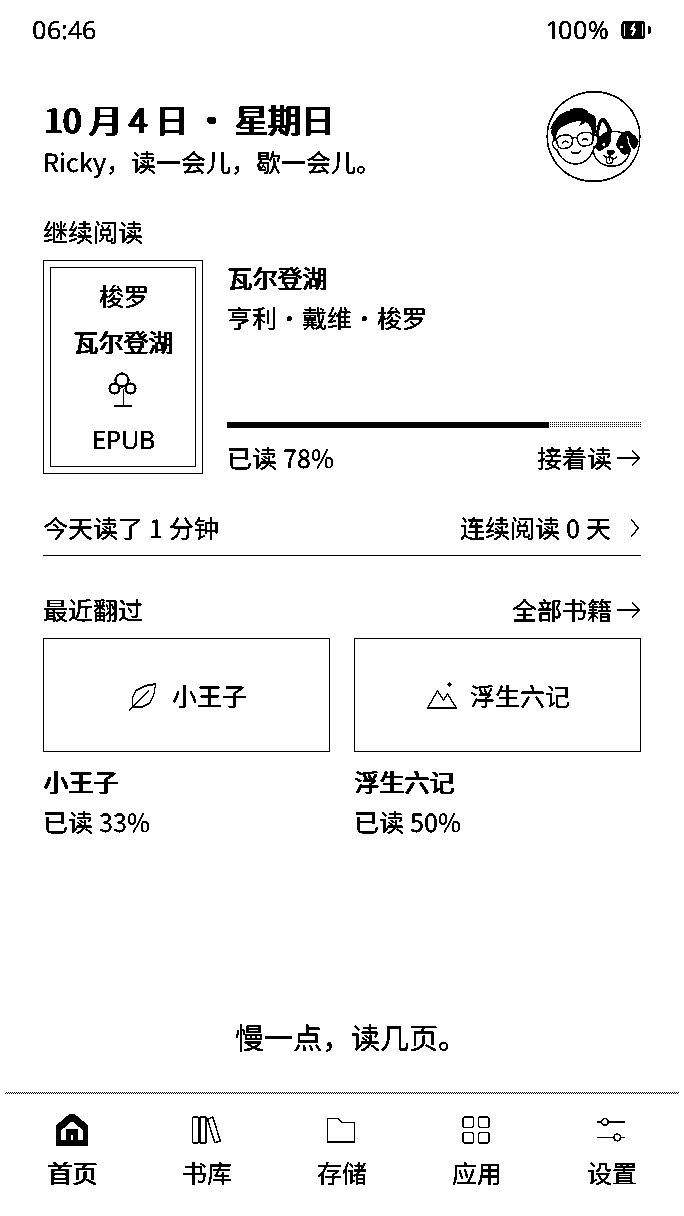
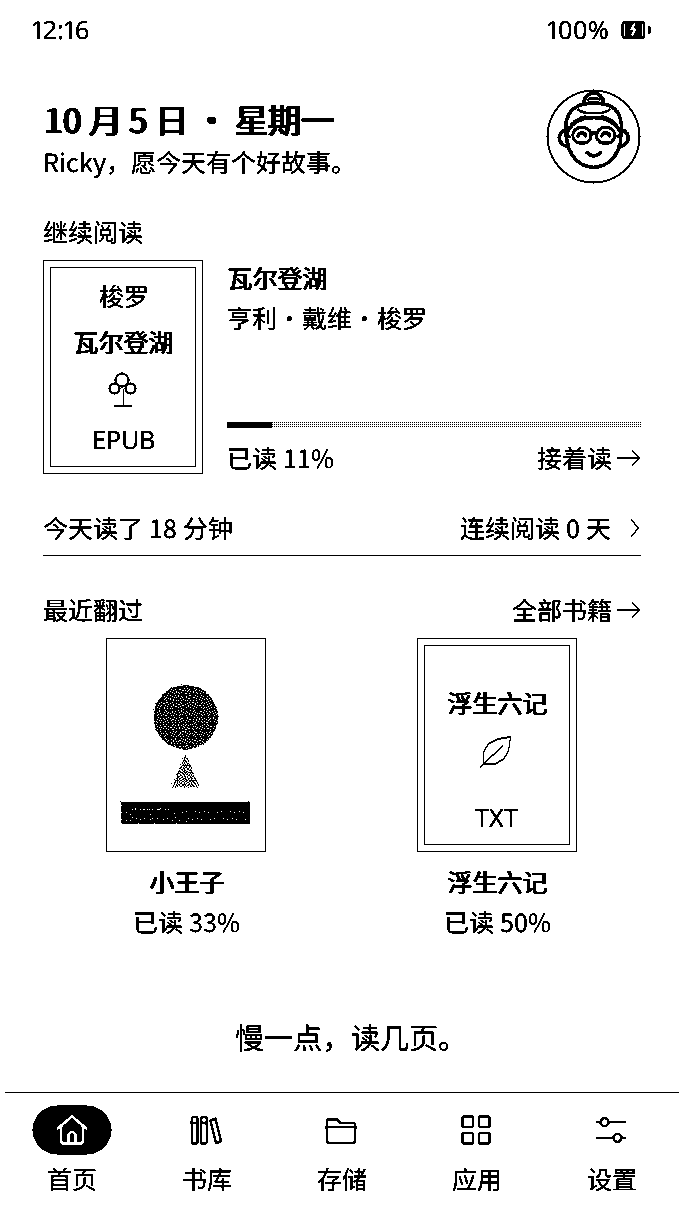
Open the website installer for 1.6.5-rickyos-pico.12
The catalog lists the release as an app upgrade: devices already on
CrossMux or RickyOS can install it from the web, and devices read the
same entry through ota.json. Factory first install stays closed until
it is accepted on hardware, and the copy now says so instead of
promising it. The home screenshot shows the current UI.

diff --git a/tools/rickyos-flasher/install.html b/tools/rickyos-flasher/install.html
@@ -5,17 +5,17 @@
 <header class="b-header"><div class="b-header-inner"><a class="b-brand" href="./"><img data-brand-logo width="1254" height="1254" alt="RickyOS 品牌 logo"><b>RickyOS</b><span>安装工作台</span></a><a class="b-studio" href="./">Ricky AI Studio</a></div></header>
 <main class="b-main"><div class="b-title"><div><p class="minor">MindReset 小纸 Read Pico</p><h1>连接小纸，安装 RickyOS。</h1><p>自动判断当前系统。先备份，再安装。</p></div><a class="b-back-link" href="./">了解系统界面 ↗</a></div>
 <div id="demo-banner" class="notice demo-notice" hidden>流程演示 · 不连接设备、不读取备份、不执行任何 Flash 写入。<a href="./install.html">退出演示 →</a></div>
-<div class="b-workspace"><aside class="b-device"><div class="b-device-title"><b>你的设备</b><span class="status-dot" id="device-state">未连接</span></div><figure><div class="b-screen"><img src="./src/assets/home-frame.png" alt="RickyOS 原生模拟器首页截图" width="684" height="1216"></div><figcaption>系统界面示例 · 原生模拟器</figcaption></figure><h2>MindReset Read Pico</h2><dl><div><dt>型号</dt><dd>RDP-G01-W</dd></div><div><dt>芯片 / Flash</dt><dd>ESP32-S3 / 16 MB</dd></div><div><dt>屏幕</dt><dd>684 × 1216</dd></div></dl><p class="b-device-note">只适用于已确认的 Read Pico 设备。<br>无需先安装其他系统。</p></aside>
+<div class="b-workspace"><aside class="b-device"><div class="b-device-title"><b>你的设备</b><span class="status-dot" id="device-state">未连接</span></div><figure><div class="b-screen"><img src="./src/assets/home-frame.png" alt="RickyOS 原生模拟器首页截图" width="684" height="1216"></div><figcaption>系统界面示例 · 原生模拟器</figcaption></figure><h2>MindReset Read Pico</h2><dl><div><dt>型号</dt><dd>RDP-G01-W</dd></div><div><dt>芯片 / Flash</dt><dd>ESP32-S3 / 16 MB</dd></div><div><dt>屏幕</dt><dd>684 × 1216</dd></div></dl><p class="b-device-note">只适用于已确认的 Read Pico 设备。<br>支持已装有 CrossMux 或 RickyOS 的设备。</p></aside>
 <section class="b-console" id="install" aria-label="RickyOS 安装面板"><div class="b-console-top"><div><span class="minor">安装面板</span><h2>安装 RickyOS</h2></div><span class="version-pill" id="release-tag">正在检查发行版本</span></div>
 <ol class="install-steps" aria-label="安装进度"><li id="step-connect" class="active" aria-current="step"><span>01</span>连接设备</li><li id="step-backup"><span>02</span>保存备份</li><li id="step-install"><span>03</span>安装与校验</li></ol>
 <div class="b-stage"><div class="usb-symbol" id="connect-symbol" aria-hidden="true"><svg viewBox="0 0 48 48" fill="none"><path d="M24 42V8m0 0-5 6m5-6 5 6M24 28l-10-8v-5m10 20 11-8v-7"/><circle cx="14" cy="12" r="3"/><path d="M32 14h6v6h-6z"/><circle cx="24" cy="42" r="3"/></svg></div>
 <h3 id="stage-heading">用 USB 数据线连接设备。</h3><p id="stage-description">在电脑 Chrome 或 Edge 中打开。<br>关闭其他占用串口的网页或刷机窗口。</p>
 <div class="notice" id="compatibility" role="status" aria-live="polite">正在检查发行状态…</div><div class="release-info"><b id="release-version">正式安装包尚未开放</b><p id="release-description">正式固件待发布。当前只开放界面预览和流程演示，不连接或刷写真实设备。</p></div>
-<div class="b-warning" id="before-start"><b id="install-path">自动检查当前系统</b><p id="install-note">原厂设备和已安装设备使用同一入口。完成备份后会检查安装方案。首次安装会替换原厂系统并清理内部文件；原厂设置不保证沿用。请另行备份 SD 卡数据。</p></div>
+<div class="b-warning" id="before-start"><b id="install-path">自动检查当前系统</b><p id="install-note">完成备份后会检查当前系统。已装有 CrossMux 或 RickyOS 的设备只更新应用；原厂系统的首次安装还在验收，暂未开放。请另行备份 SD 卡数据。</p></div>
 <label class="check-row"><input type="checkbox" id="model-confirm"><span>我确认设备是 <b>Read Pico（RDP-G01-W）</b>，并了解第三方固件的安装风险。</span></label><div class="control-row"><button id="connect" class="button blue-button" disabled>连接并检查设备 <span aria-hidden="true">→</span></button><button id="disconnect" class="button quiet" hidden>断开连接</button><a href="./install.html?demo=1" class="text-link" id="demo-link">看看流程演示</a></div>
 <div id="backup-controls" class="backup-controls" hidden><button class="button secondary" id="backup">读取完整 16 MB 备份</button><button class="button quiet" id="cancel" hidden>取消读取</button><a class="button secondary" id="save-backup" hidden download>保存备份文件 ↓</a><label class="file-control" id="saved-backup-control" hidden>校验刚保存的备份<input type="file" id="saved-backup" accept=".bin"></label><p class="small" id="backup-help">备份可能需要数分钟。下载后重新选择这份文件校验，才可进入安装。</p></div>
 <div id="progress-region" hidden><div class="progress-label"><b id="operation">等待操作</b><span id="percent">0%</span></div><progress id="progress" max="100" value="0">0%</progress></div><p class="result" id="result" role="status" aria-live="polite"></p>
 <div class="final-controls" id="final-controls" hidden><label class="check-row"><input type="checkbox" id="write-confirm"><span id="write-confirm-text">完整备份已保存；我确认安装所选版本，写入期间不拔线、不让电脑休眠。</span></label><button id="install-button" class="button blue-button" disabled>安装 RickyOS</button></div></div>
 <div class="b-console-bottom"><span>本地校验 · 备份不上传 · 不操作 SD 卡</span><details class="logs"><summary>查看本次操作记录</summary><pre id="log" aria-label="刷机操作记录">尚未连接设备。没有执行任何 Flash 写入。</pre><button id="save-log" class="text-link">保存记录 ↓</button></details></div></section></div>
-<section class="b-help" id="faq"><h2>安装前与遇到问题时</h2><div><details><summary>电脑找不到设备<span aria-hidden="true">＋</span></summary><p>检查 USB 数据线，关闭占用串口的网页或终端。仍无法识别时，按设备官方说明进入 BOOT 下载模式，不要照其他机型操作。</p></details><details><summary>备份失败或安装中断<span aria-hidden="true">＋</span></summary><p>备份失败不允许写入。若写入已经开始，请保持 BOOT 模式和连接，保存记录并联系 Ricky AI Studio；不要自行整片擦除或重启。本站暂不提供恢复刷写。</p></details><details><summary>原厂设备与书籍数据<span aria-hidden="true">＋</span></summary><p>无需先刷其他系统；受支持的原厂版本会自动匹配首次安装组件。首次安装会调整分区、替换启动组件并清理内部文件。网站不操作 SD 卡，完整 Flash 备份也不含 SD 卡，请另行备份书籍和阅读数据。</p></details></div></section></main>
+<section class="b-help" id="faq"><h2>安装前与遇到问题时</h2><div><details><summary>电脑找不到设备<span aria-hidden="true">＋</span></summary><p>检查 USB 数据线，关闭占用串口的网页或终端。仍无法识别时，按设备官方说明进入 BOOT 下载模式，不要照其他机型操作。</p></details><details><summary>备份失败或安装中断<span aria-hidden="true">＋</span></summary><p>备份失败不允许写入。若写入已经开始，请保持 BOOT 模式和连接，保存记录并联系 Ricky AI Studio；不要自行整片擦除或重启。本站暂不提供恢复刷写。</p></details><details><summary>原厂设备与书籍数据<span aria-hidden="true">＋</span></summary><p>原厂系统的首次安装还在验收，暂未开放；识别到原厂系统时只保存备份，不会写入。网站不操作 SD 卡，完整 Flash 备份也不含 SD 卡，请另行备份书籍和阅读数据。</p></details></div></section></main>
 <footer class="b-footer"><span>RickyOS · Ricky AI Studio</span><span>第三方固件，非 MindReset 官方发布</span><a href="./licenses.html">开源与隐私说明 ↗</a></footer><noscript><p class="b-main notice">请开启 JavaScript。关闭脚本时无法连接设备或刷写。</p></noscript><script type="module" src="./src/app.js"></script></body></html>

diff --git a/tools/rickyos-flasher/index.html b/tools/rickyos-flasher/index.html
@@ -7,6 +7,6 @@
 <figure class="a-screen"><div class="screen-frame"><img src="./src/assets/home-frame.png" alt="RickyOS 当前固件在原生模拟器中的首页，含继续阅读、最近书籍和底部导航" width="684" height="1216"></div><figcaption>当前固件界面 · 原生模拟器截图</figcaption></figure>
 <div class="a-side a-side-right"><div class="brand-seal"><img data-brand-logo width="1254" height="1254" alt="RickyOS 专属人物与狗狗 logo"><p>你的随身书房。</p></div><div><h2>也留一点生活。</h2><p>自己的问候、头像和待机画面。<br>阅读之外，还有轻量生活工具。</p></div></div></div>
 <div class="a-page-links" aria-label="系统功能"><span><b>首页</b>从继续阅读开始</span><span><b>书库</b>全部、在读、未读</span><span><b>存储</b>书籍、字体和图片</span><span><b>生活工具</b>轻量，不喧宾夺主</span></div></section>
-<section class="a-install-band" id="a-install"><div class="content a-install-inner"><div><span class="minor">正式固件待发布</span><h2>先认识 RickyOS。</h2><p>系统界面与安装流程现已开放预览。<br>正式固件发布后，在这里为小纸安装新系统。</p></div><a class="button black-button" href="./install.html">进入安装工作台 <span aria-hidden="true">→</span></a></div></section>
-<section class="content a-help"><h2>安装前，你只需要知道这些。</h2><details><summary>需要先安装其他系统吗？<span>＋</span></summary><p>不需要。正式安装包通过验收后，网站会自动识别受支持的原厂版本或已有兼容系统。未知版本会停止，不会盲目写入。当前正式安装包尚未开放。</p></details><details><summary>我的书籍会受到影响吗？<span>＋</span></summary><p>网站不操作 SD 卡，但刷写前仍应另行备份 SD 数据。原厂首次安装会清理内部文件，原厂设置不保证沿用。</p></details><p class="home-release-note">网站先上线，正式固件待发布。当前不开放设备连接与刷写。<a href="./install.html?demo=1">体验安装流程 →</a></p></section></main>
+<section class="a-install-band" id="a-install"><div class="content a-install-inner"><div><span class="minor">正式版 1.6.5-rickyos-pico.12</span><h2>为小纸装上 RickyOS。</h2><p>用电脑 Chrome 或 Edge 连接设备，先备份，再安装。<br>已经装好的设备，在设置里就能在线更新。</p></div><a class="button black-button" href="./install.html">进入安装工作台 <span aria-hidden="true">→</span></a></div></section>
+<section class="content a-help"><h2>安装前，你只需要知道这些。</h2><details><summary>需要先安装其他系统吗？<span>＋</span></summary><p>网页安装目前支持已经装有 CrossMux 或 RickyOS 的小纸。原厂系统的首次安装还在验收，暂未开放。网站会先识别设备，不匹配就停止，不会盲目写入。</p></details><details><summary>我的书籍会受到影响吗？<span>＋</span></summary><p>网站不操作 SD 卡，但刷写前仍应另行备份 SD 数据。原厂首次安装会清理内部文件，原厂设置不保证沿用。</p></details><p class="home-release-note">第三方固件，安装前请保存好完整备份。<a href="./install.html?demo=1">先看看安装流程 →</a></p></section></main>
 <footer class="content a-footer"><span>RickyOS · Ricky AI Studio</span><span>第三方固件，非 MindReset 官方发布</span><a href="./licenses.html">开源与隐私说明 ↗</a></footer><script type="module" src="./src/site.js"></script></body></html>

diff --git a/tools/rickyos-flasher/src/app.js b/tools/rickyos-flasher/src/app.js
@@ -51,7 +51,7 @@ function showPlan(kind) {
   $('install-note').textContent = kind === 'factory' ?
     '首次安装会替换系统、启动组件和分区，清理原厂内部文件。原厂设置不保证沿用；网站不操作 SD 卡，请另行备份卡上的数据。' :
     kind === 'upgrade' ? '只更新应用，不写启动加载器、分区表和启动记录，不操作 SD 卡。' :
-    '原厂设备和已安装设备使用同一入口。完成备份后会检查安装方案。首次安装会替换原厂系统并清理内部文件；原厂设置不保证沿用。请另行备份 SD 卡数据。';
+    '完成备份后会检查当前系统。已装有 CrossMux 或 RickyOS 的设备只更新应用；原厂系统的首次安装还在验收，暂未开放。请另行备份 SD 卡数据。';
   $('write-confirm-text').textContent = kind === 'factory' ?
     '完整 Flash 备份已保存并校验；SD 卡数据已另行备份。我确认首次安装会替换原厂系统并清理内部文件，写入期间不拔线、不让电脑休眠。' :
     '完整备份已保存；我确认安装所选版本，写入期间不拔线、不让电脑休眠。';
